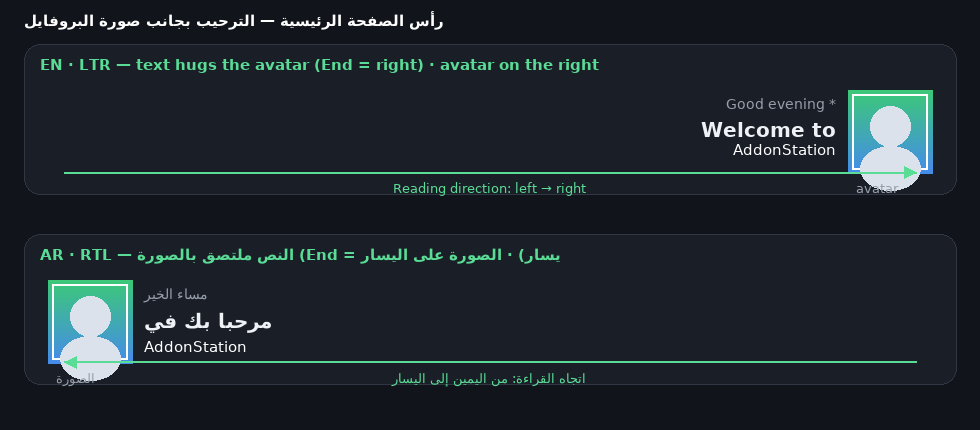
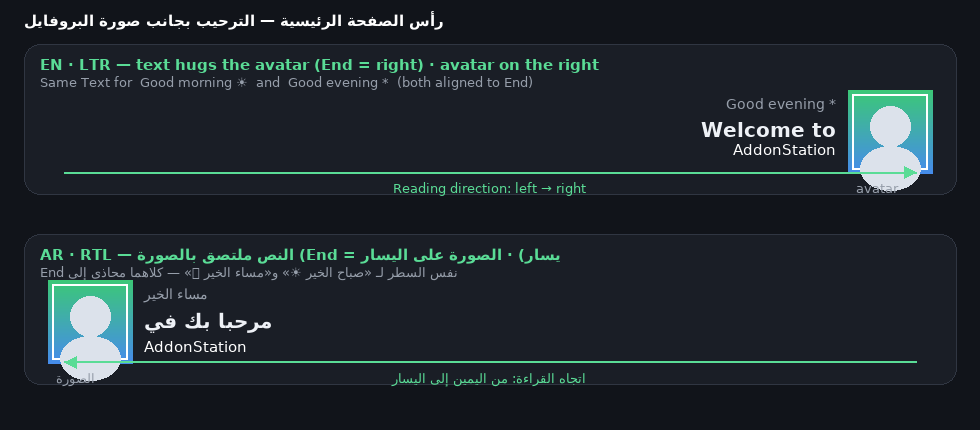
معاينة: توضيح أن «Good morning/صباح الخير» يمرّ بنفس سطر الترحيب المُعدَّل

Changed region(s): [[0.0306, 0.1814, 0.551, 0.2116], [0.0612, 0.6349, 0.3673, 0.6651], [0.398, 0.6349, 0.4592, 0.6651]]

diff --git a/tools/preview_home_greeting.py b/tools/preview_home_greeting.py
@@ -51,12 +51,14 @@ img = Image.new("RGB", (W, H), BG)
 d = ImageDraw.Draw(img)
 
 
-def panel(y: int, rtl: bool, title: str, lines, avatar_label: str, note: str):
+def panel(y: int, rtl: bool, title: str, lines, avatar_label: str, note: str, caption: str = ""):
     """رسم لوحة واحدة: نص الترحيب ملتصق بالصورة حسب الاتجاه."""
     pad = 24
     box = (pad, y, W - pad, y + 150)
     d.rounded_rectangle(box, radius=16, fill=PANEL, outline=(48, 54, 66), width=1)
     d.text((pad + 16, y + 12), title, font=F_TITLE, fill=ACCENT)
+    if caption:
+        d.text((pad + 16, y + 30), ar(caption) if rtl else caption, font=F_NOTE, fill=MUTED)
 
     avatar_size = 84
     gap = 12
@@ -121,6 +123,7 @@ panel(
     ],
     avatar_label="avatar",
     note="EN panel ok",
+    caption="Same Text for  Good morning \u2600  and  Good evening *  (both aligned to End)",
 )
 
 # ٢) العربية (RTL): النص على يسار الصورة، محاذاة لليسار (End = left)
@@ -135,6 +138,7 @@ panel(
     ],
     avatar_label=ar("الصورة"),
     note="AR panel ok",
+    caption="نفس السطر لـ «صباح الخير ☀» و«مساء الخير 👋» — كلاهما محاذىً إلى End",
 )
 
 d.text((24, 12), ar("رأس الصفحة الرئيسية — الترحيب بجانب صورة البروفايل"),
